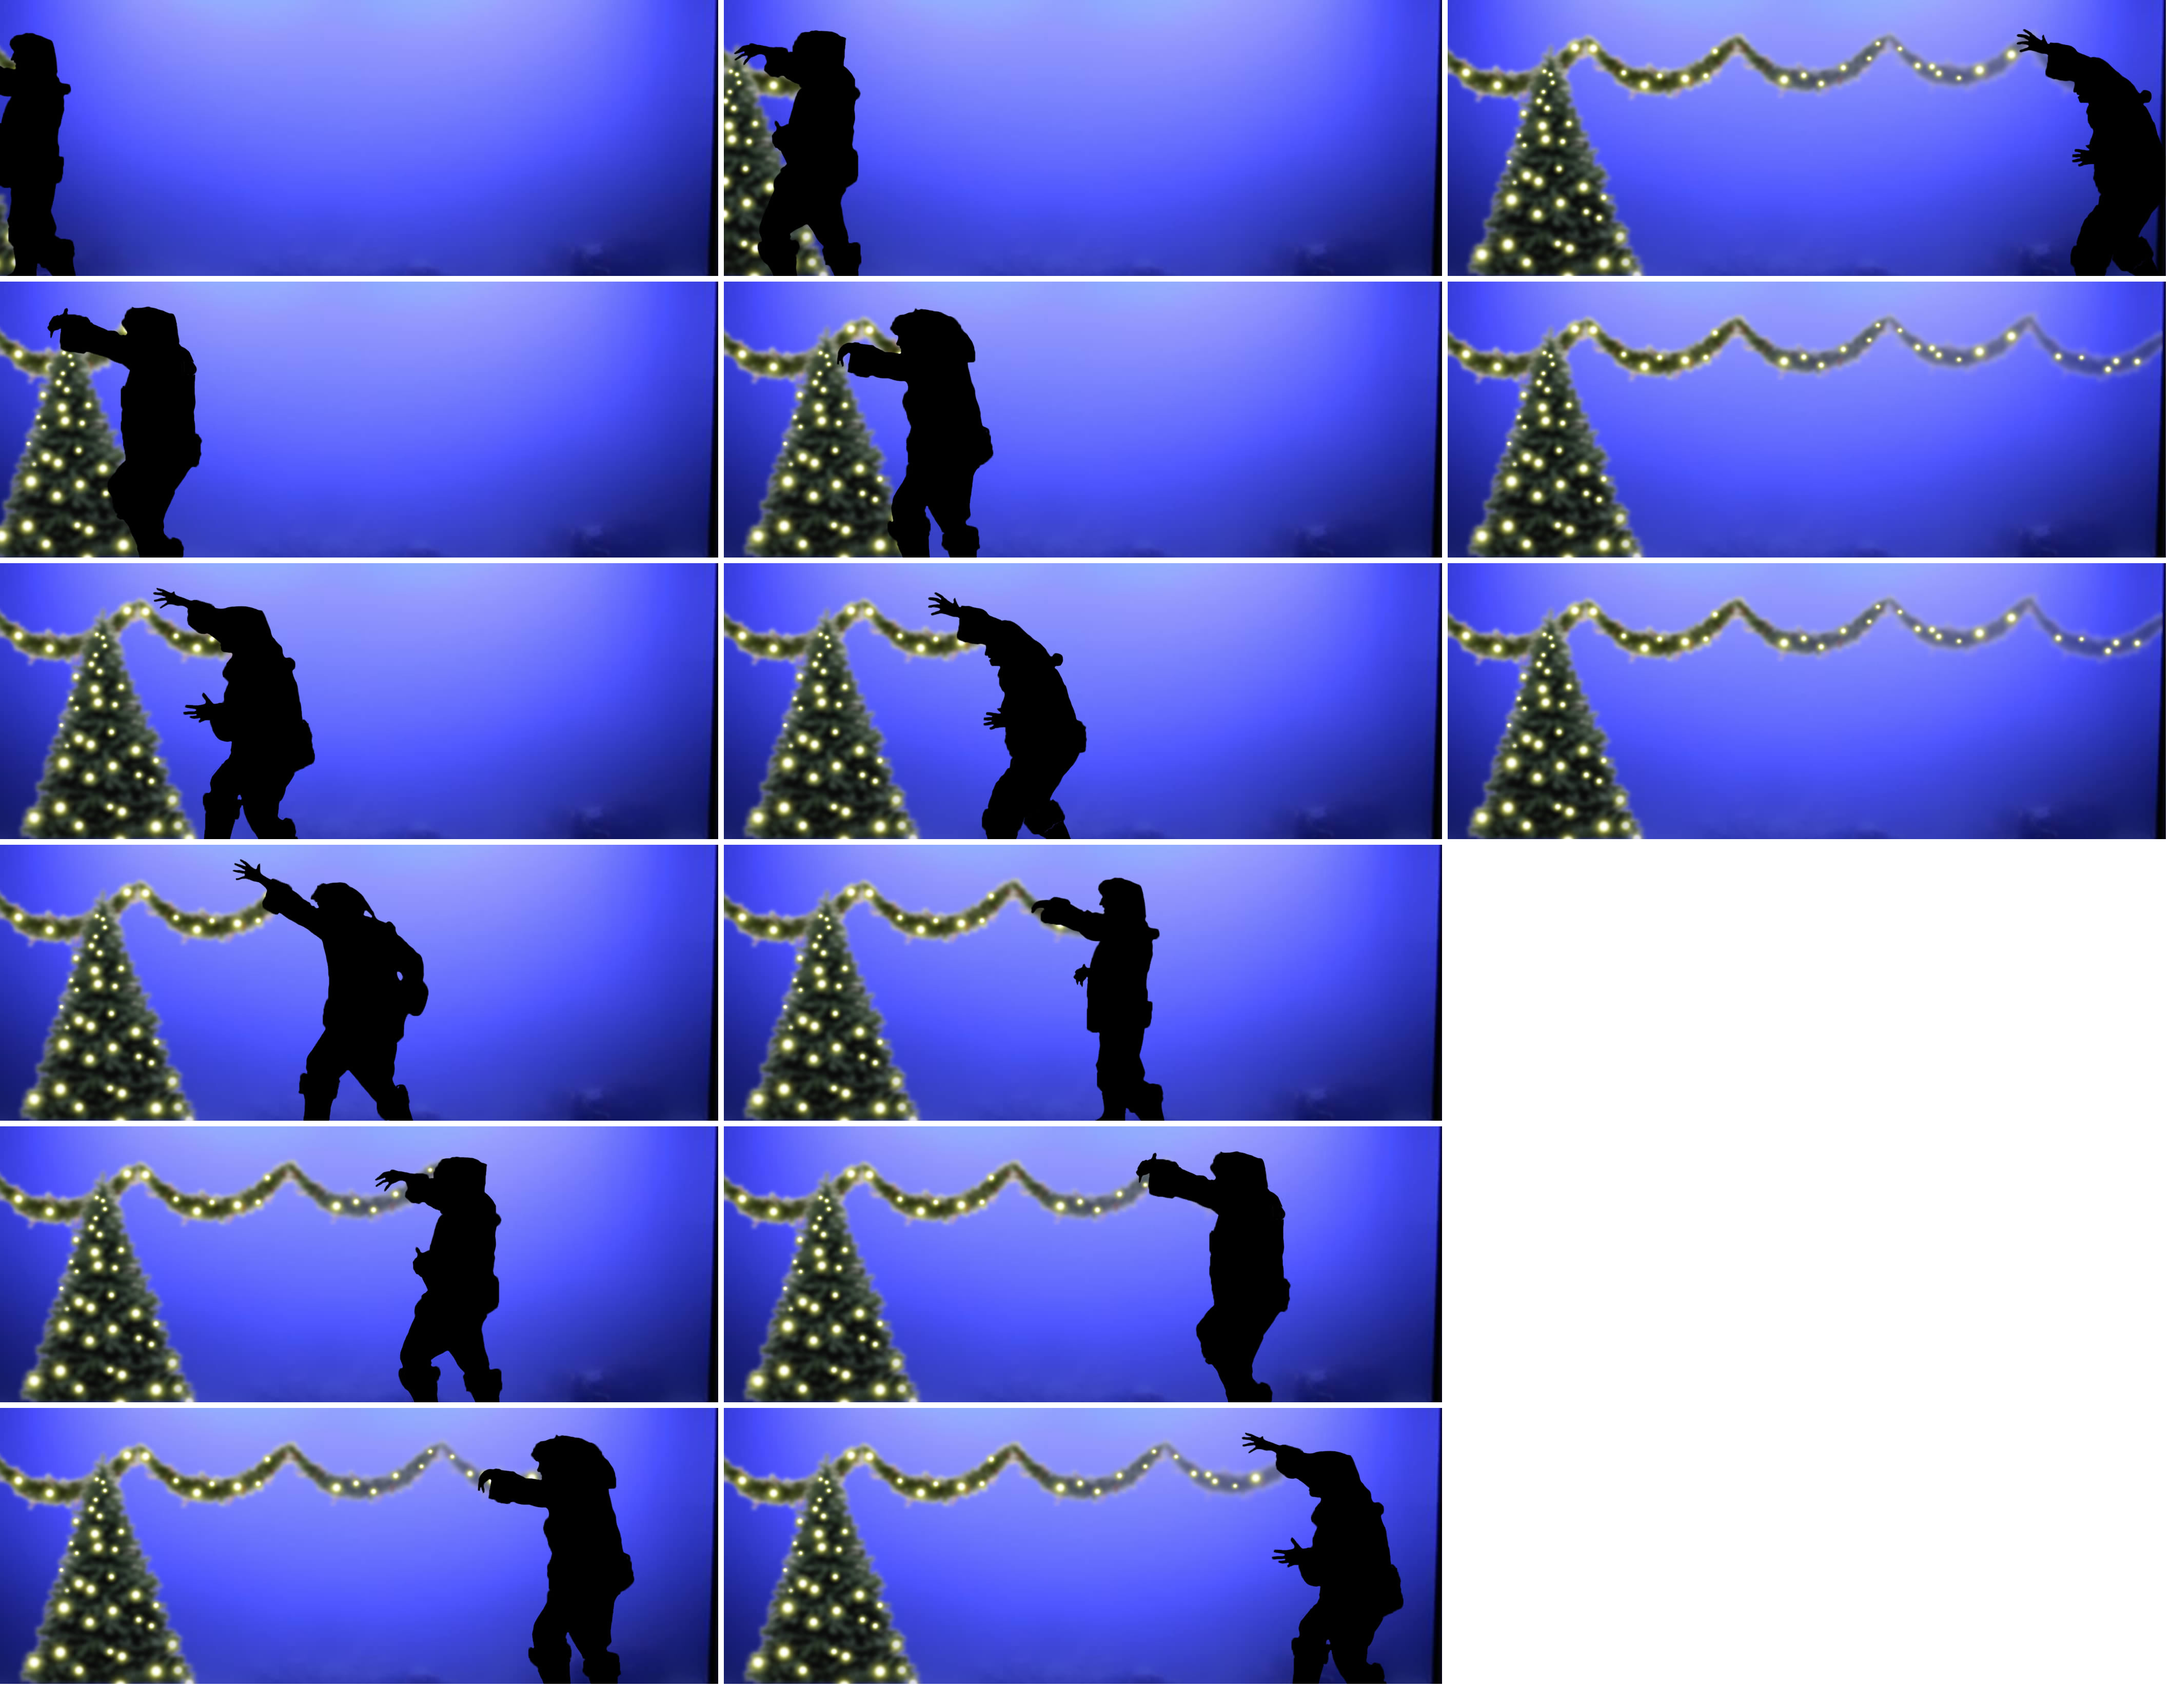
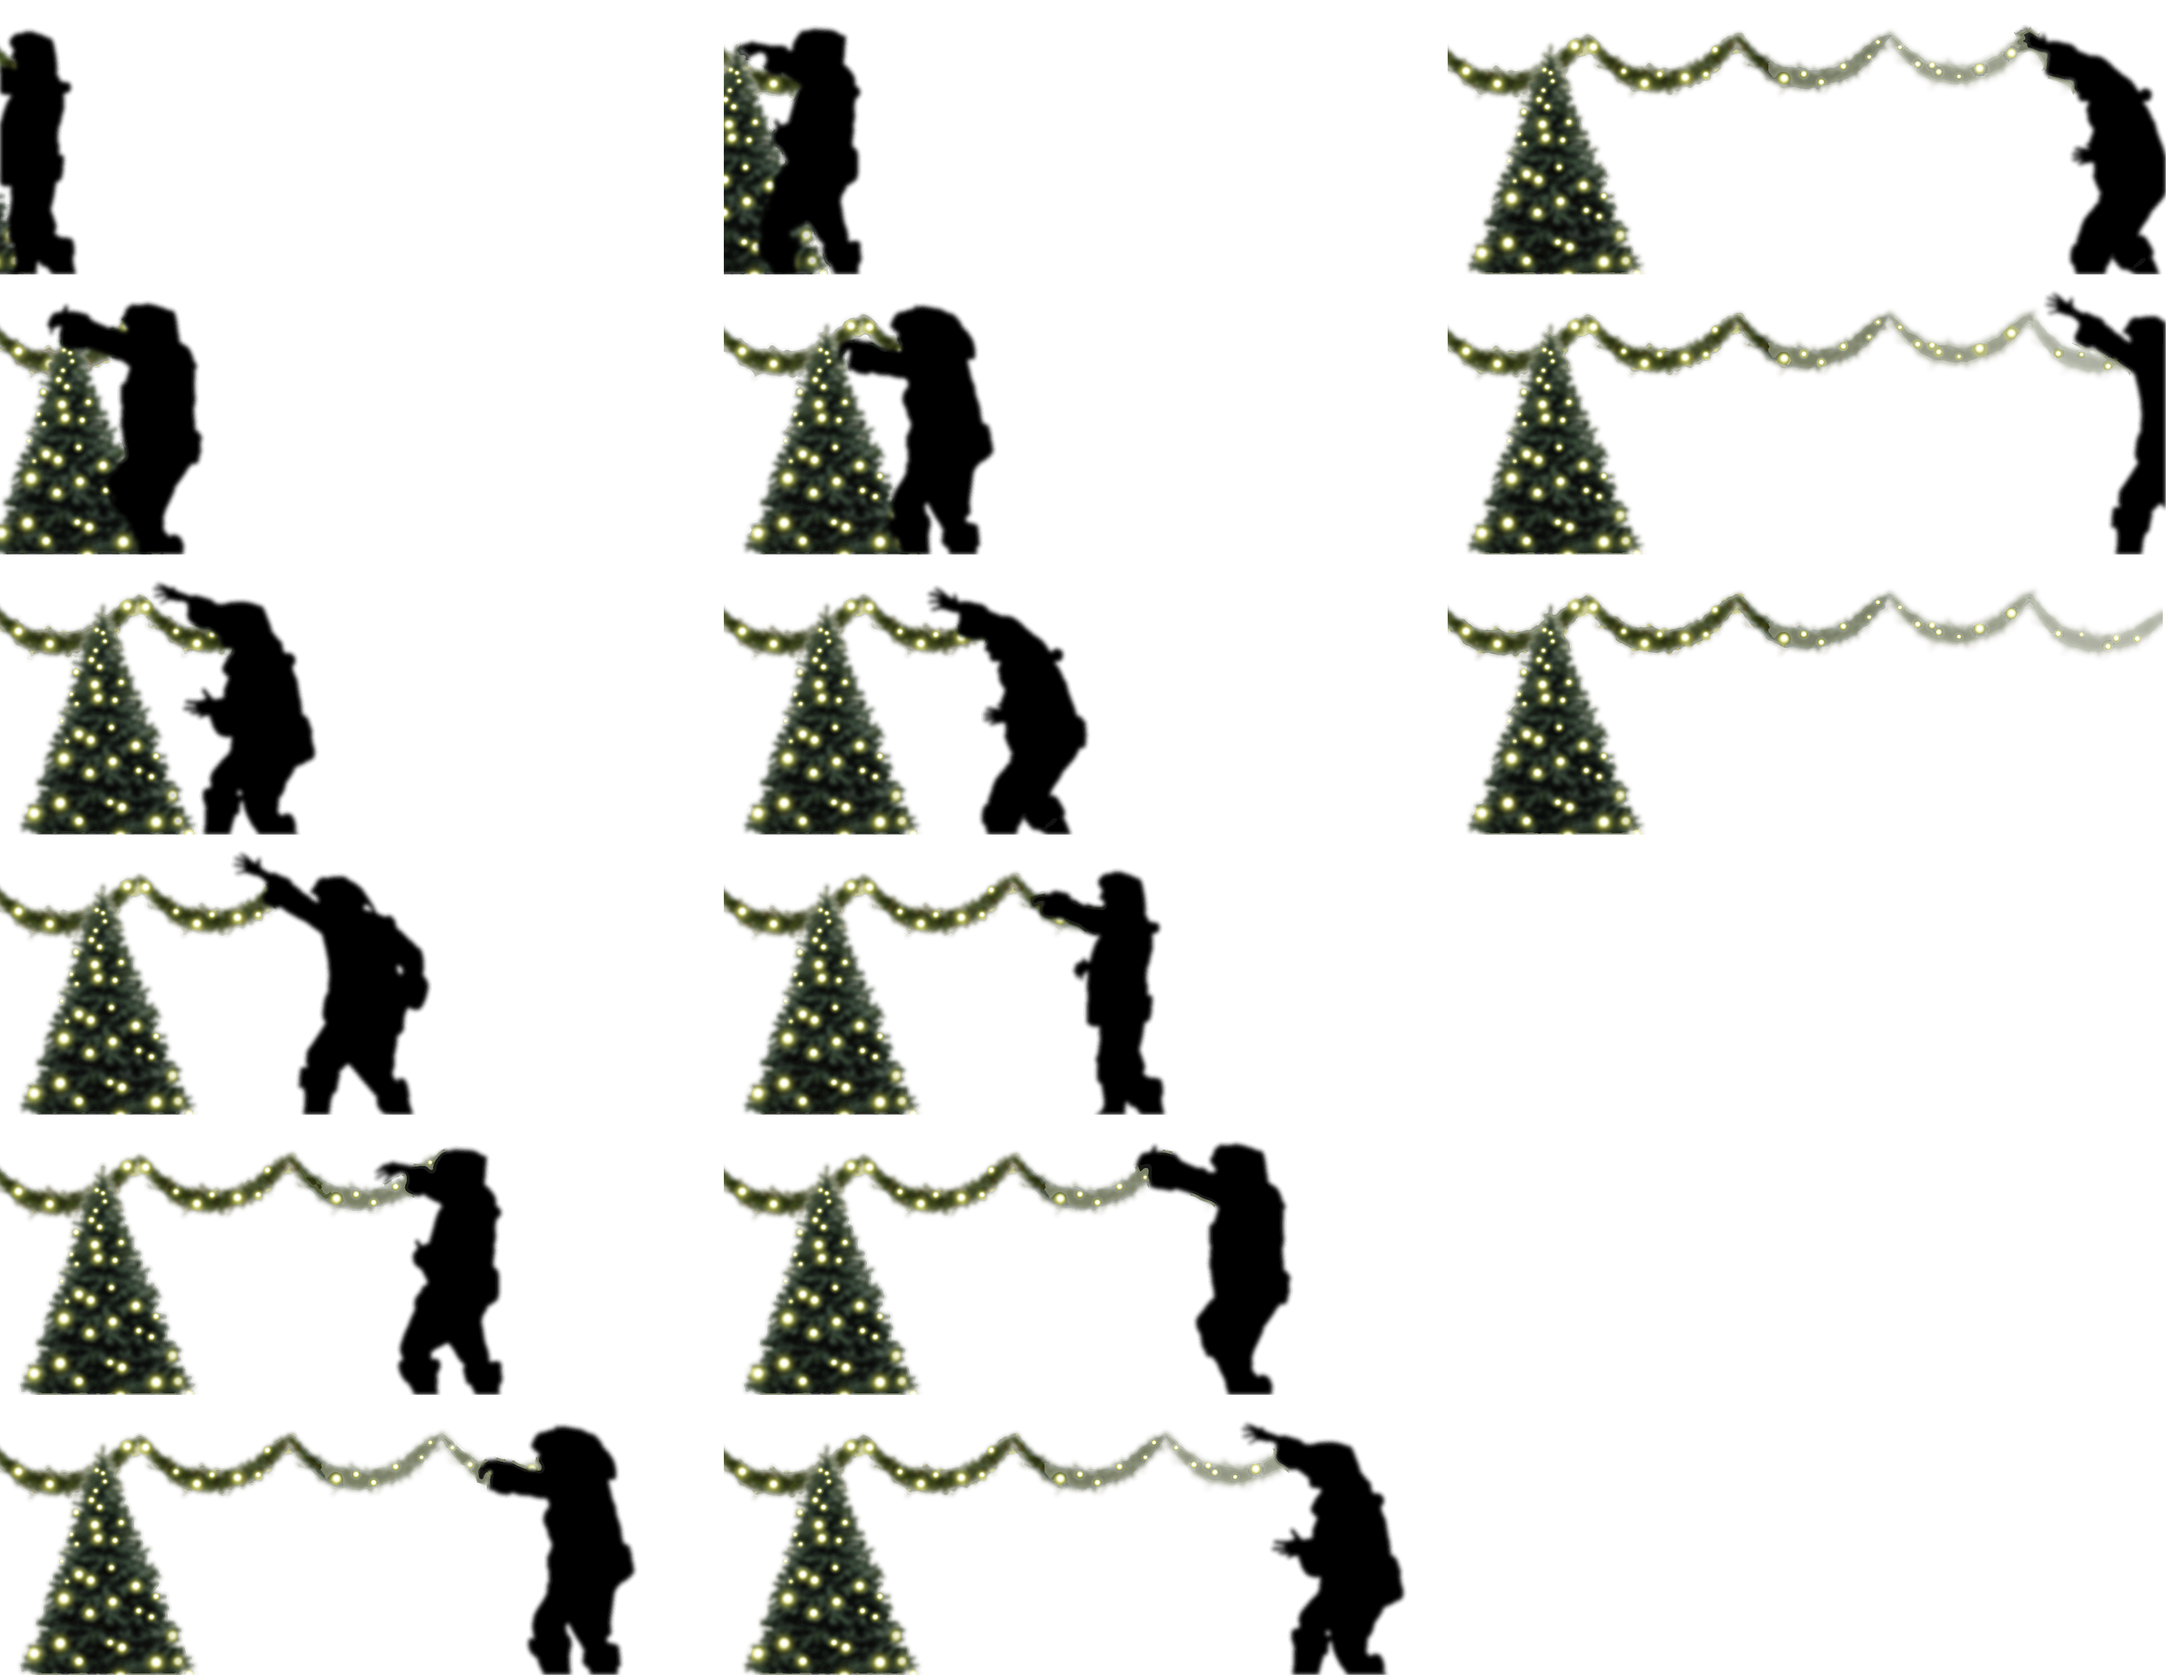
updating aquarium scene sprite/timing

diff --git a/css/main.css b/css/main.css
@@ -141,7 +141,7 @@ audio { display: none; }
 .color6 { background-color: #F5A800; }
 .color7 { background-color: #FBFFDF; }
 .color8 { background-color: #1B2388; }
-.color9 { background-color: #50B2BB; }
+.color9 { background-color: #D8E1D2; }
 .color10 { background-color: #50B2BB; }
 .color11 { background-color: #000000 }  /* #E5E5D4; */
 .color12 { background-color: #0053A2; }
@@ -158,7 +158,7 @@ audio { display: none; }
 #scene6  { height:8500px; opacity: 0; } /* cliffs/honville */
 #scene7  { height:9000px; opacity: 0; } /* cliffs/honville */
 #scene8  { height:11000px; opacity: 0; } /* cliffs/honville */
-#scene9  { height:6000px; opacity: 0; } /* cliffs/honville */
+#scene9  { height:7500px; opacity: 0; } /* cliffs/honville */
 #scene10 { height:7500px; opacity: 0; } /* cliffs/honville */
 #scene11 { height:9500px; opacity: 0; } /* cliffs/honville */
 #scene12 { height:6000px; opacity: 0; } /* cliffs/honville */
@@ -590,23 +590,23 @@ audio { display: none; }
 #aquarium-people.aqua0 { background-position: -0px -0px; }
 
 
-#aquarium-grinch {  position:absolute;  width: 1400px; height: 538px; background: url('../img/scene-aquarium/aquarium-grinch-hi.png') no-repeat -2822px -1098px; bottom:0; left:0; }
-#aquarium-grinch.aquarium-grinch0 {width: 1400px;height: 538px;background-position: -2822px -1098px;}
-#aquarium-grinch.aquarium-grinch1 {width: 1400px;height: 538px;background-position: -2822px -549px;}
-#aquarium-grinch.aquarium-grinch2 {width: 1400px;height: 538px;background-position: -2822px -0px;}
-#aquarium-grinch.aquarium-grinch3 {width: 1400px;height: 538px;background-position: -1411px -2745px;}
-#aquarium-grinch.aquarium-grinch4 {width: 1400px;height: 538px;background-position: -0px -2745px;}
-#aquarium-grinch.aquarium-grinch5 {width: 1400px;height: 538px;background-position: -1411px -2196px;}
-#aquarium-grinch.aquarium-grinch6 {width: 1400px;height: 538px;background-position: -0px -2196px;}
-#aquarium-grinch.aquarium-grinch7 {width: 1400px;height: 538px;background-position: -1411px -1647px;}
-#aquarium-grinch.aquarium-grinch8 {width: 1400px;height: 538px;background-position: -0px -1647px;}
-#aquarium-grinch.aquarium-grinch9 {width: 1400px;height: 538px;background-position: -1411px -1098px;}
-#aquarium-grinch.aquarium-grinch10 {width: 1400px;height: 538px;background-position: -0px -1098px;}
-#aquarium-grinch.aquarium-grinch11 {width: 1400px;height: 538px;background-position: -1411px -549px;}
-#aquarium-grinch.aquarium-grinch12 {width: 1400px;height: 538px;background-position: -0px -549px;}
-#aquarium-grinch.aquarium-grinch13 {width: 1400px;height: 538px;background-position: -1411px -0px;}
-#aquarium-grinch.aquarium-grinch14 {width: 1400px;height: 538px;background-position: -0px -0px;}
-#aquarium-grinch.aquarium-grinch15 {width: 1400px;height: 538px;background: none;}
+#aquarium-grinch { position:absolute;  width: 1400px; height: 538px; background: url('../img/scene-aquarium/aquarium-grinch.png') no-repeat -2822px -1092px; bottom:0; left:0;  }
+#aquarium-grinch.aquarium-grinch0 {width: 1400px; height: 535px; background-position: -2822px -1092px;}
+#aquarium-grinch.aquarium-grinch1 {width: 1400px; height: 535px; background-position: -2822px -546px;}
+#aquarium-grinch.aquarium-grinch2 {width: 1400px; height: 535px; background-position: -2822px -0px;}
+#aquarium-grinch.aquarium-grinch3 {width: 1400px; height: 535px; background-position: -1411px -2730px;}
+#aquarium-grinch.aquarium-grinch4 {width: 1400px; height: 535px; background-position: -0px -2730px;}
+#aquarium-grinch.aquarium-grinch5 {width: 1400px; height: 535px; background-position: -1411px -2184px;}
+#aquarium-grinch.aquarium-grinch6 {width: 1400px; height: 535px; background-position: -0px -2184px;}
+#aquarium-grinch.aquarium-grinch7 {width: 1400px; height: 535px; background-position: -1411px -1638px;}
+#aquarium-grinch.aquarium-grinch8 {width: 1400px; height: 535px; background-position: -0px -1638px;}
+#aquarium-grinch.aquarium-grinch9 {width: 1400px; height: 535px; background-position: -1411px -1092px;}
+#aquarium-grinch.aquarium-grinch10 {width: 1400px; height: 535px; background-position: -0px -1092px;}
+#aquarium-grinch.aquarium-grinch11 {width: 1400px; height: 535px; background-position: -1411px -546px;}
+#aquarium-grinch.aquarium-grinch12 {width: 1400px; height: 535px; background-position: -0px -546px;}
+#aquarium-grinch.aquarium-grinch13 {width: 1400px; height: 535px; background-position: -1411px -0px;}
+#aquarium-grinch.aquarium-grinch14 {width: 1400px; height: 535px; background-position: -0px -0px;}
+#aquarium-grinch.aquarium-grinch15 {background: none;}
 
 
 

diff --git a/js/main.js b/js/main.js
@@ -615,8 +615,8 @@ window.onload = function() {
 			
 			{id:narrationFiles[8], start: 9.01, end: 9.2, x: 1, y: 0, type:"narration"},
 			
-			{id:musicFiles[7], start: 9.2, end: 9.4, x: 0.5, y: 0, type:"music"},
-			{id:musicFiles[7], start: 9.8, end: 9.99, x: 0.5, y: 0, type:"music"} 
+			{id:musicFiles[7], start: 9.1, end: 9.3, x: 0.5, y: 0, type:"music"},
+			{id:musicFiles[7], start: 9.9, end: 9.99, x: 0.5, y: 0, type:"music"} 
 		],
 
 		 [ //scene 10 - truck
@@ -808,8 +808,8 @@ window.onload = function() {
 		],
 		
 		[ // scene 8 - aquarium
-			{id:document.getElementById("aquarium-people"), start: 9.0, end: 9.99, prefix: "aqua", order: [1,2,3,4,5,6,7,8,9,10], repeat:3},
-			{id:document.getElementById("aquarium-grinch"), start: 9.3, end: 9.65, prefix: "aquarium-grinch", order: [0,1,2,3,4,5,6,7,8,9,10,11,12,13,14,15], repeat:1},
+			{id:document.getElementById("aquarium-people"), start: 9.0, end: 9.99, prefix: "aqua", order: [1,2,3,4,5,6,7,8,9,10], repeat:4},
+			{id:document.getElementById("aquarium-grinch"), start: 9.6, end: 9.8, prefix: "aquarium-grinch", order: [0,1,2,3,4,5,6,7,8,9,10,11,12,13,14,15], repeat:1},
 			{id:body, start: 9.5, end: 9.6, prefix: "color", order: [8,9], repeat:1}
 			
 		],
